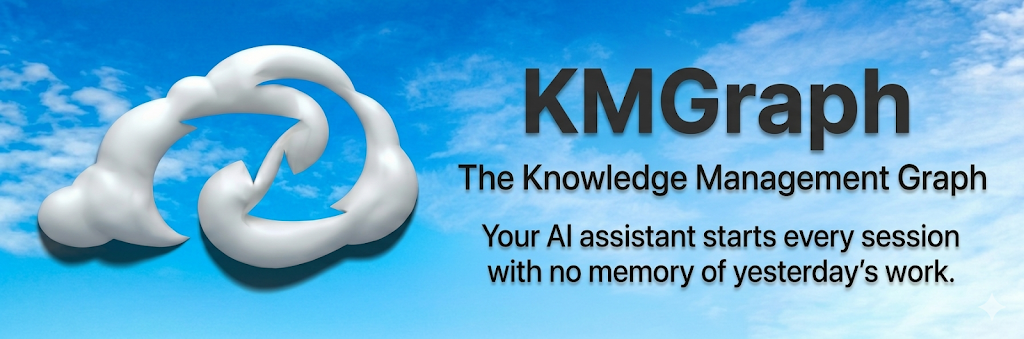
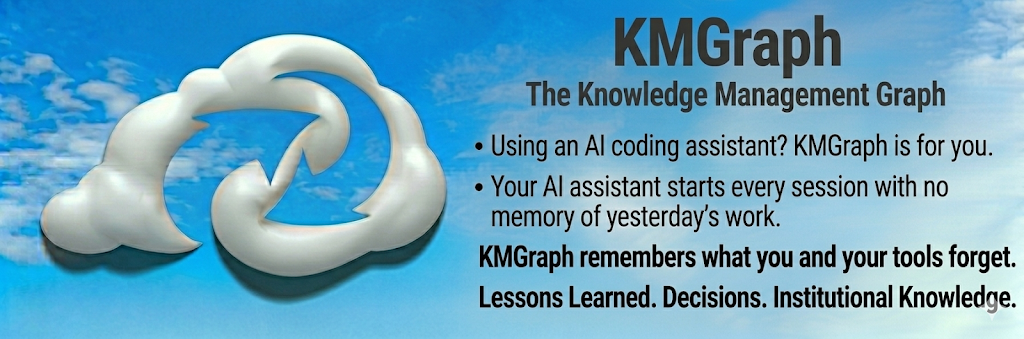
docs(home): rewrite home page for clarity and audience targeting
- Replace banner with new version carrying hook, problem, solution, and tricolon
- Add 2x2 context grid (sessions, models, tools, teammates)
- Add stores list with lessons, decisions, institutional knowledge bullets
- Add audience badge pills (Developer, Vibe-Coder, Prompt Engineer, etc.)
- Add capture-lesson demo GIF above install CTA
- Strip hero box to install CTA only
- Fix pre-existing duplicate doc IDs in issues/enhancements
- Add docs-updates feed post

diff --git a/src/css/home.module.css b/src/css/home.module.css
@@ -91,6 +91,105 @@
   margin-top: auto;
 }
 
+/* ── Context grid (2×2) ──────────────────────────────────────────── */
+.contextGrid {
+  display: grid;
+  grid-template-columns: repeat(2, 1fr);
+  gap: 1rem;
+  margin-bottom: 1.75rem;
+}
+
+.contextItem {
+  background: var(--ifm-card-background-color);
+  border: 1px solid var(--ifm-color-emphasis-200);
+  border-radius: 10px;
+  padding: 1rem 1.25rem;
+}
+
+.contextItem strong {
+  display: block;
+  font-size: 0.95rem;
+  margin-bottom: 0.25rem;
+}
+
+.contextItem span {
+  font-size: 0.85rem;
+  color: var(--ifm-color-content-secondary);
+}
+
+/* ── What it stores ──────────────────────────────────────────────── */
+.storesList {
+  list-style: none;
+  padding: 0;
+  margin: 0 0 1.75rem;
+  display: flex;
+  flex-direction: column;
+  gap: 0.6rem;
+}
+
+.storesList li {
+  font-size: 0.95rem;
+  padding-left: 1.5rem;
+  position: relative;
+  line-height: 1.45;
+}
+
+.storesList li::before {
+  content: '→';
+  position: absolute;
+  left: 0;
+  color: var(--ifm-color-primary);
+  font-weight: 700;
+}
+
+/* ── Audience badges ─────────────────────────────────────────────── */
+.audienceSection {
+  text-align: center;
+  margin-bottom: 1.75rem;
+}
+
+.audienceLabel {
+  font-size: 0.85rem;
+  color: var(--ifm-color-content-secondary);
+  margin-bottom: 0.75rem;
+}
+
+.badges {
+  display: flex;
+  flex-wrap: wrap;
+  gap: 0.5rem;
+  justify-content: center;
+}
+
+.badge {
+  background: var(--ifm-color-emphasis-100);
+  border: 1px solid var(--ifm-color-emphasis-300);
+  border-radius: 20px;
+  padding: 0.3rem 0.85rem;
+  font-size: 0.82rem;
+  font-weight: 500;
+  color: var(--ifm-color-content);
+}
+
+/* ── Demo GIF ────────────────────────────────────────────────────── */
+.demoSection {
+  text-align: center;
+  margin-bottom: 1.75rem;
+}
+
+.demoLabel {
+  font-size: 0.85rem;
+  color: var(--ifm-color-content-secondary);
+  margin-bottom: 0.75rem;
+}
+
+.demoGif {
+  width: 100%;
+  max-width: 700px;
+  border-radius: 8px;
+  border: 1px solid var(--ifm-color-emphasis-200);
+}
+
 /* ── Tablet: 2×2 cards ───────────────────────────────────────────── */
 @media (max-width: 860px) {
   .cards {
@@ -99,6 +198,13 @@
 
   .card {
     flex: 1 1 calc(50% - 0.625rem);
+  }
+}
+
+/* ── Collapse context grid on small screens ──────────────────────── */
+@media (max-width: 600px) {
+  .contextGrid {
+    grid-template-columns: 1fr;
   }
 }
 

diff --git a/docs/enhancements/ENH-009/solution-approach.md b/docs/enhancements/ENH-009/solution-approach.md
@@ -1,5 +1,5 @@
 ---
-id: ENH-009
+id: ENH-009-solution
 type: Hardening
 status: OPEN
 ---

diff --git a/docs/issues/issue-2/solution-approach.md b/docs/issues/issue-2/solution-approach.md
@@ -1,5 +1,5 @@
 ---
-id: issue-2
+id: issue-2-solution
 type: Hardening
 status: OPEN
 ---

diff --git a/docs/issues/issue-3/solution-approach.md b/docs/issues/issue-3/solution-approach.md
@@ -1,5 +1,5 @@
 ---
-id: issue-3
+id: issue-3-solution
 type: Hardening
 status: OPEN
 ---
